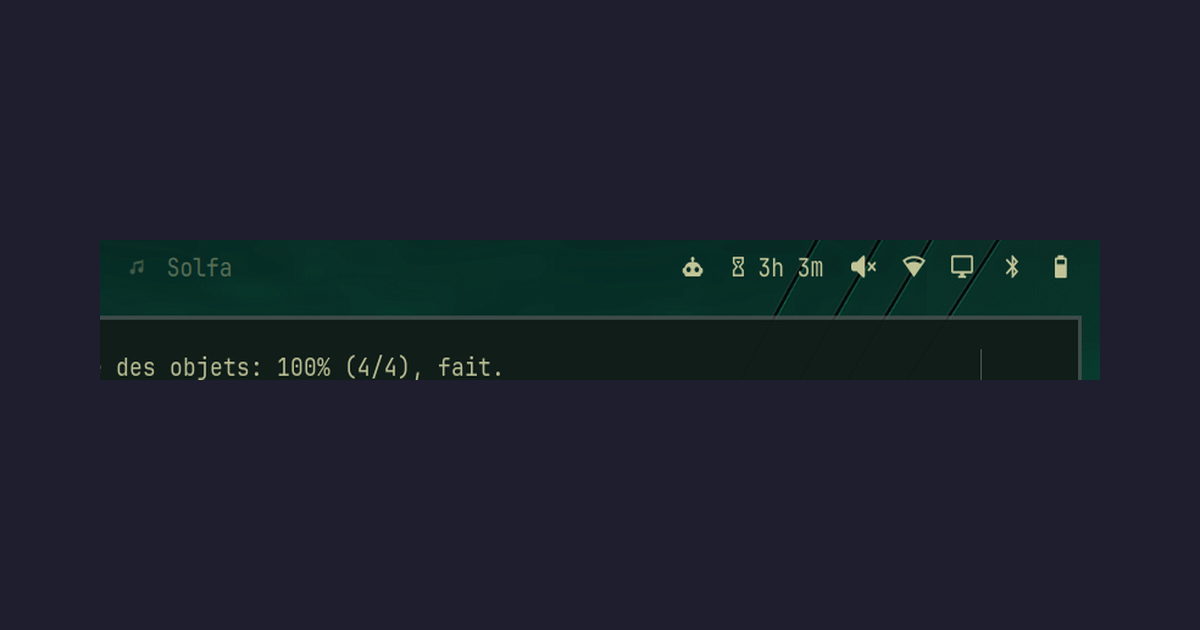
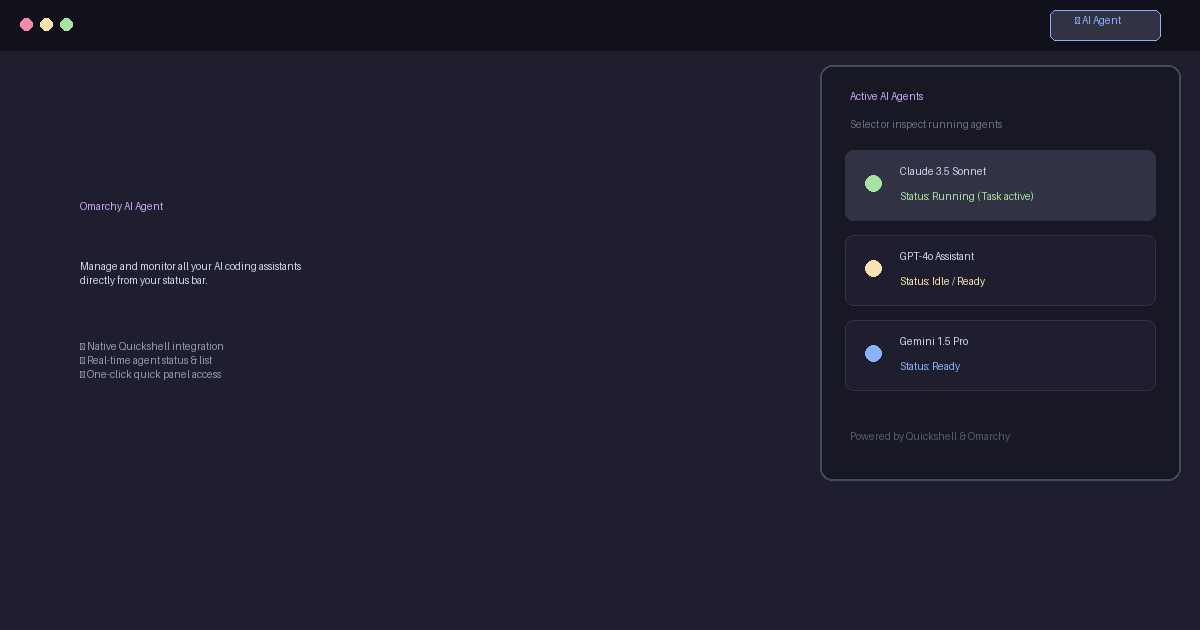
feat: add AI agents list panel and polished preview image

diff --git a/qml/Panel.qml b/qml/Panel.qml
@@ -14,8 +14,8 @@ Panel {
     owner: root
     bar: root.bar
     open: root.opened
-    contentWidth: Style.space(360)
-    contentHeight: Style.space(200)
+    contentWidth: Style.space(380)
+    contentHeight: Style.space(340)
 
     Column {
       anchors.fill: parent
@@ -23,7 +23,7 @@ Panel {
       spacing: Style.spacing.md
 
       Text {
-        text: "AI Agent Assistant"
+        text: "AI Agents"
         color: bar ? bar.foreground : Color.foreground
         font.family: bar ? bar.fontFamily : Style.font.family
         font.pixelSize: Style.font.bodyLarge
@@ -31,12 +31,64 @@ Panel {
       }
 
       Text {
-        text: "Your AI agent is running next to screen time."
+        text: "Active coding assistants and models"
         color: Color.muted
         font.family: bar ? bar.fontFamily : Style.font.family
-        font.pixelSize: Style.font.body
-        wrapMode: Text.WordWrap
+        font.pixelSize: Style.font.bodySmall
+      }
+
+      ListView {
         width: parent.width
+        height: Style.space(210)
+        clip: true
+        spacing: Style.spacing.sm
+
+        model: ListModel {
+          ListElement { name: "Claude 3.5 Sonnet"; status: "Running (Active)"; accent: "#a6e3a1" }
+          ListElement { name: "GPT-4o Assistant"; status: "Idle / Ready"; accent: "#f9e2af" }
+          ListElement { name: "Gemini 1.5 Pro"; status: "Ready"; accent: "#89b4fa" }
+        }
+
+        delegate: Rectangle {
+          width: parent.width
+          height: Style.space(56)
+          color: Color.surfaceContainer
+          radius: Style.radius.sm
+          border.color: Color.border
+
+          Row {
+            anchors.fill: parent
+            anchors.margins: Style.spacing.sm
+            spacing: Style.spacing.md
+            anchors.verticalCenter: parent.verticalCenter
+
+            Rectangle {
+              width: 10
+              height: 10
+              radius: 5
+              color: model.accent
+              anchors.verticalCenter: parent.verticalCenter
+            }
+
+            Column {
+              spacing: 2
+              anchors.verticalCenter: parent.verticalCenter
+
+              Text {
+                text: model.name
+                color: Color.foreground
+                font.bold: true
+                font.pixelSize: Style.font.body
+              }
+
+              Text {
+                text: model.status
+                color: Color.muted
+                font.pixelSize: Style.font.bodySmall
+              }
+            }
+          }
+        }
       }
     }
   }
